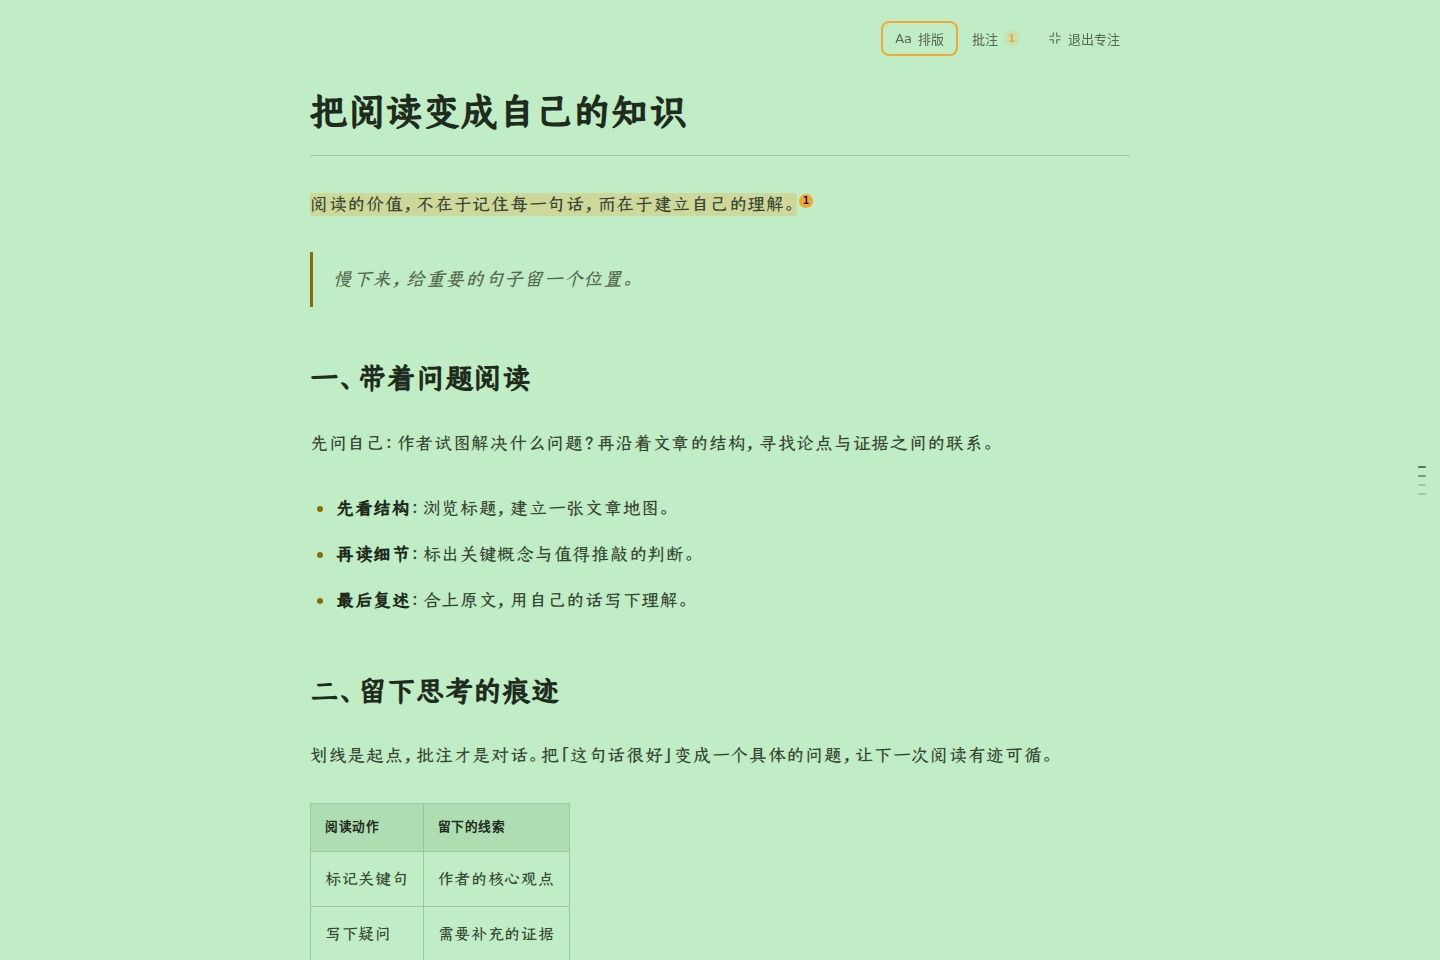
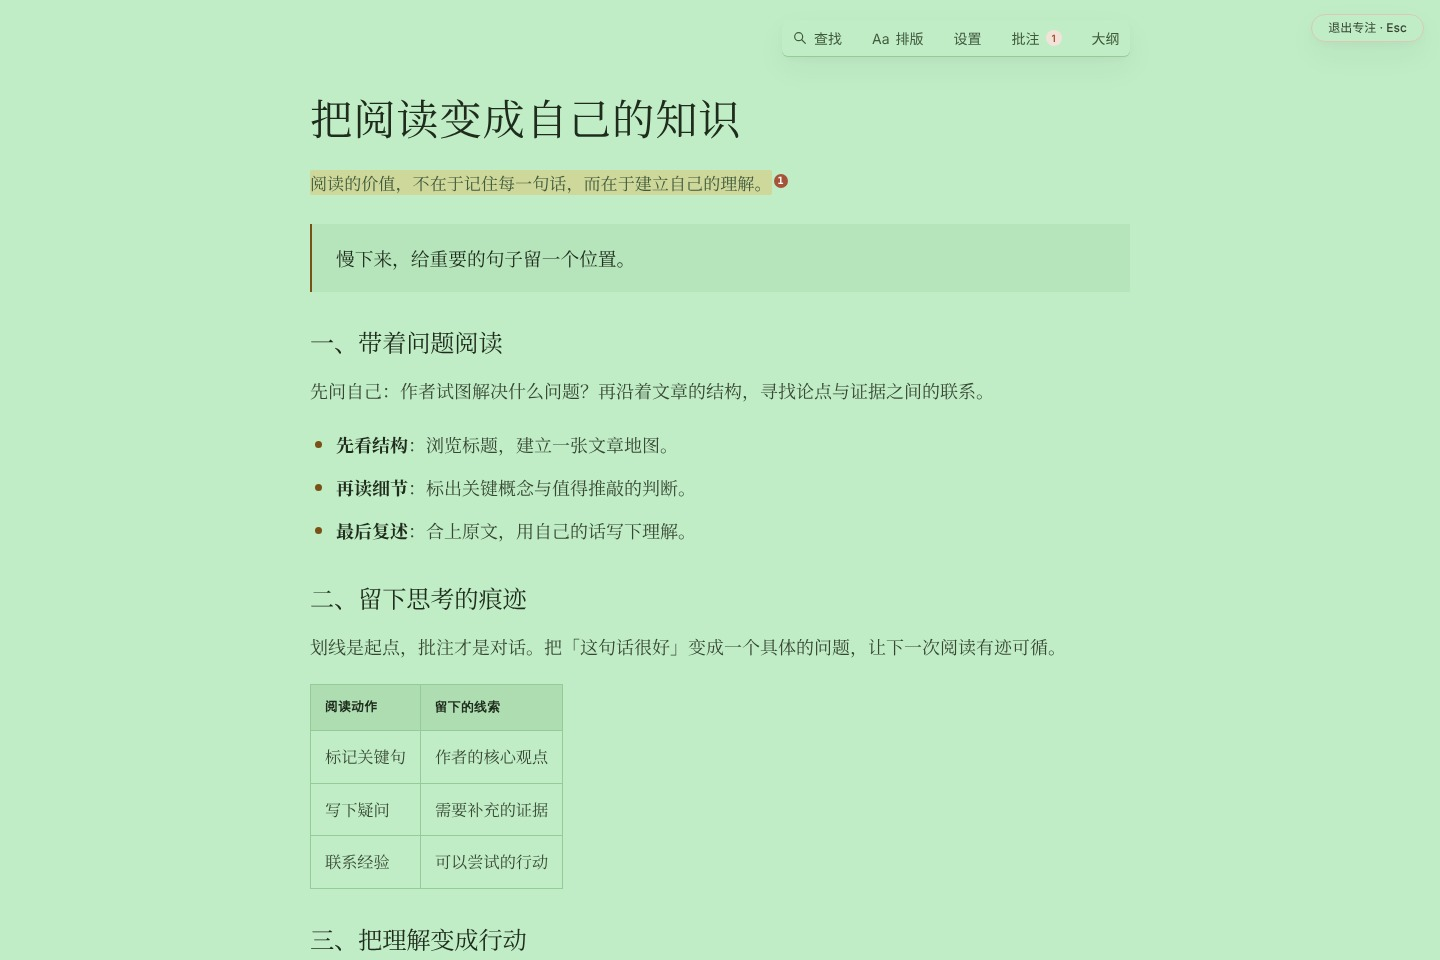
docs: refresh README screenshots in the light paper theme
- Regenerate the six README screenshots with docs/screenshots/capture.mjs
  using the light frame + parchment paper, matching the redesigned landing page
- capture.mjs: follow current UI labels (panel close button, 排版 toggle),
  wait for an editable AI input instead of an enabled Send button, and blur
  keyboard focus before each capture so focus rings don't appear
- README / README.en: describe the paper theme instead of the dark-only "Ink" theme
- docs/screenshots/README.md: record theme and baseline

Claude-Session: https://claude.ai/code/session_01CtX9izaF8YGJPGS8g1jeeT

diff --git a/docs/screenshots/README.md b/docs/screenshots/README.md
@@ -2,8 +2,9 @@
 
 这组六张 JPEG 是 Chromium 对实际应用的截图，不是设计稿，也没有重绘、拼接或修改界面像素。
 
-- 应用基线：`7ed561feaacaa4ac8c892f326a9b46c2949001fa`（合并 #25 后的 main）。截图脚本和文档更新不改变生产界面。
+- 应用基线：落地页浅色改版分支（PR #64），具体提交见 `capture-manifest.json` 的 `sourceCommit`。截图脚本和文档更新不改变生产界面。
 - 视口：1440 × 960，设备像素比 1，中文语言与上海时区。
+- 主题：亮色框架 + 羊皮纸纸面（与落地页一致）；沉浸阅读两张分别切换为羊皮纸与豆沙绿。每张截图前清除键盘焦点，避免焦点框入镜。
 - 内容：原创阅读文章与演示批注；未使用个人文件、账号或 API Key。
 - AI：使用 Playwright 拦截的 Bridge fixture，回答正文明确显示「演示回答（非实时 AI 输出）」。渠道就绪状态也是演示 fixture，不证明真实 CLI 或账号可用。
 - 字体：优先使用项目的可选阅读字体，失败时回退到已安装的中文系统字体；不把第三方字体提交到仓库。

diff --git a/README.en.md b/README.en.md
@@ -4,7 +4,7 @@
 
 A source-available Markdown editor for reading, learning, and annotation: edit directly, preview live, jump between source and preview, highlight and annotate, export long images, cache locally, and import or export documents. Connect the optional local Agent Bridge for AI Q&A and a recent-reading list.
 
-The interface uses the Mojian design system's dark “Ink” theme: warm brown-black tones, a single amber accent, and a Kai-style Chinese reading font.
+The interface uses the Mojian design system: warm paper tones, a single terracotta accent, and a Kai-style Chinese reading font. The landing page and the screenshots below use the light paper theme (parchment by default); the editor also offers a dark “Ink” theme in Settings.
 
 **[Try Mojian Markdown online →](https://yuxizhai.com/md-editor/)**
 

diff --git a/README.md b/README.md
@@ -4,7 +4,7 @@
 
 一个源码开放、面向阅读、学习和评注的 Markdown 编辑器：直接编辑、实时预览、双向定位、划线批注、保存长图、本地缓存与导入导出。可选接入本地 Agent Bridge，获得 AI 问答和最近阅读列表。
 
-界面采用墨笺（Mojian）设计系统的「墨」暗色主题：暖棕墨色 + 单一琥珀强调色 + 楷体阅读衬线。
+界面采用墨笺（Mojian）设计系统：暖色纸面 + 单一赭红强调色 + 楷体阅读衬线。落地页与下方截图使用亮色「笺」纸面（默认羊皮纸），编辑器另有暗色「墨」主题，可在设置中切换。
 
 **[在线体验墨笺 Markdown →](https://yuxizhai.com/md-editor/)**
 
